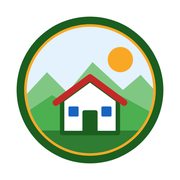
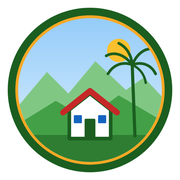
Sello «Los Profesionales», escombros retirados y ajustes de la Junta
- Logo nuevo: sello con «LOS PROFESIONALES» y «Junta de Acción Comunal
  · Armenia» en el aro, y en el centro las montañas del Quindío, la casa
  comunal y la palma de cera. Versión sin texto (logo-icono.svg) para el
  encabezado, el pie, la cartelera y los íconos; imagen para compartir e
  íconos PNG regenerados.
- JAC-010 pasa a «En trámite»: la Junta verificó que los escombros ya
  fueron retirados; falta confirmar las basuras y la respuesta escrita.
  Las fotos quedan como «Antes».
- Asamblea: el 18 sep se adelantó la depuración del libro de afiliados;
  eso es lo que se espera para volver a convocar.
- Vicepresidente: «Apoyo a la gestión de la Junta».
- Delegados: Álvaro Zambrano, suplente hasta la próxima Asamblea, por
  renuncia del delegado anterior.
- Cartelera: «Ya se hizo» en franja inferior a dos columnas (1 hoja).

diff --git a/index.html b/index.html
@@ -29,7 +29,7 @@
 
     <title>JAC Barrio Los Profesionales · Comuna 10 · Armenia</title>
 
-    <link rel="icon" type="image/svg+xml" href="img/logo.svg">
+    <link rel="icon" type="image/svg+xml" href="img/logo-icono.svg">
     <link rel="icon" type="image/png" sizes="192x192" href="img/icon-192.png">
     <link rel="apple-touch-icon" href="img/apple-touch-icon.png">
     <link rel="manifest" href="site.webmanifest">
@@ -104,7 +104,7 @@
     <header class="header" id="header">
         <nav class="nav container" aria-label="Principal">
             <a href="#inicio" class="nav__logo" aria-label="Inicio: Junta de Acción Comunal Barrio Los Profesionales">
-                <img src="img/logo.svg" alt="" class="nav__logo-img" width="42" height="42">
+                <img src="img/logo-icono.svg" alt="" class="nav__logo-img" width="42" height="42">
                 <span class="nav__logo-text"><span class="nav__logo-top">Junta de Acción Comunal</span><span class="nav__logo-name">Los Profesionales</span></span>
             </a>
 
@@ -160,7 +160,7 @@
             </svg>
             <div class="hero__flag-stripe" aria-hidden="true"></div>
             <div class="hero__content container">
-                <img src="img/logo.svg" alt="Logo de la Junta de Acción Comunal Barrio Los Profesionales" class="hero__logo" width="112" height="112">
+                <img src="img/logo.svg" alt="Sello de la Junta de Acción Comunal Barrio Los Profesionales" class="hero__logo" width="150" height="150">
                 <span class="hero__badge">Portal oficial · Comuna 10 · Armenia, Quindío</span>
                 <h1 class="hero__title">Junta de Acción Comunal</h1>
                 <p class="hero__subtitle">Barrio Los Profesionales</p>
@@ -451,7 +451,7 @@
                         <h3 id="asamblea-title" class="asamblea__heading">Próxima Asamblea General</h3>
                         <p class="asamblea__date" data-asamblea-fecha>Fecha por definir</p>
                         <p class="asamblea__countdown" data-asamblea-cuenta hidden></p>
-                        <p class="asamblea__detail" data-asamblea-detalle>La Asamblea convocada para el 18 de septiembre de 2026 no alcanzó el quórum. La volveremos a convocar en cuanto terminemos de depurar el libro de afiliados, y la publicaremos aquí y en cartelera con anticipación. Si quieres que te avisemos por correo, <a href="#avisos-correo" class="contact__link">inscríbete aquí</a>.</p>
+                        <p class="asamblea__detail" data-asamblea-detalle>La Asamblea convocada para el 18 de septiembre de 2026 no alcanzó el quórum; lo que se pudo adelantar fue la depuración del libro de afiliados, y eso es lo que estamos esperando. La volveremos a convocar en cuanto esa depuración termine, y la publicaremos aquí y en cartelera con anticipación. Si quieres que te avisemos por correo, <a href="#avisos-correo" class="contact__link">inscríbete aquí</a>.</p>
                         <button type="button" class="btn btn--ghost asamblea__ics" data-asamblea-ics hidden>📅 Agregar a mi calendario</button>
                         <button type="button" class="act-btn asamblea__listen" data-listen="#asamblea-ficha" hidden><span aria-hidden="true">🔊</span> Escuchar</button>
                     </div>
@@ -576,7 +576,7 @@
                     <li class="aviso">
                         <time class="aviso__date" datetime="2026-09-18">18 sep 2026</time>
                         <div>
-                            <strong>La Asamblea General no alcanzó el quórum.</strong> Se convocará de nuevo cuando esté depurado el libro de afiliados.
+                            <strong>La Asamblea General no alcanzó el quórum.</strong> Se adelantó la depuración del libro de afiliados; la Asamblea se convocará de nuevo cuando esa depuración termine.
                             <a href="#retiro" class="contact__link">Por qué importa</a>
                         </div>
                     </li>
@@ -1028,7 +1028,7 @@
                         <div class="team__avatar">E</div>
                         <h4>Eneried Vallejo Montenegro</h4>
                         <span class="team__role">Vicepresidente</span>
-                        <p class="team__desc">Apoya la gestión y reemplaza al presidente</p>
+                        <p class="team__desc">Apoyo a la gestión de la Junta</p>
                     </div>
                     <div class="team__card fade-in">
                         <div class="team__avatar">S</div>
@@ -1073,7 +1073,7 @@
                         <ul class="org__list">
                             <li><span class="org__name">Fernando Ramírez Salcedo</span></li>
                             <li><span class="org__name">Eneried Vallejo Montenegro</span></li>
-                            <li><span class="org__name">Byron Daniel Peñaloza Peña</span></li>
+                            <li><span class="org__name">Álvaro Zambrano</span><span class="org__role">Suplente hasta la próxima Asamblea, por renuncia del delegado anterior</span></li>
                         </ul>
                     </div>
                 </div>
@@ -1456,7 +1456,7 @@
             <div class="footer__grid">
                 <div class="footer__col">
                     <div class="footer__logo">
-                        <img src="img/logo.svg" alt="" width="44" height="44">
+                        <img src="img/logo-icono.svg" alt="" width="44" height="44">
                         <h4>JAC Barrio Los Profesionales</h4>
                     </div>
                     <p>Comuna 10 · Armenia, Quindío. Organización comunal sin ánimo de lucro, al servicio de todos los habitantes del barrio.</p>

diff --git a/cartelera.html b/cartelera.html
@@ -107,9 +107,9 @@
             display: flex;
             align-items: center;
             gap: 2mm;
-            font-size: 12.5pt;
+            font-size: 11.5pt;
             font-weight: 800;
-            padding: 1.5mm 3mm;
+            padding: 1.1mm 3mm;
             border-radius: 2mm;
             color: #fff;
             background: var(--c);
@@ -122,7 +122,7 @@
             display: grid;
             grid-template-columns: 1fr;
             gap: 0.3mm;
-            padding: 0.8mm 0.8mm;
+            padding: 0.6mm 0.8mm;
             border-bottom: 1px solid var(--borde);
             font-size: 8.8pt;
             line-height: 1.26;
@@ -134,6 +134,9 @@
         .lista .m { display: block; color: var(--suave); font-size: 8.2pt; margin-top: 0.2mm; }
         .lista .r { display: block; font-size: 8.2pt; font-weight: 700; color: var(--ambar); margin-top: 0.2mm; }
         .lista .r.tarde { color: var(--rojo); }
+        .bloque--hecho { margin-top: 2.5mm; }
+        .lista--2col { grid-template-columns: 1fr 1fr; column-gap: 6mm; }
+        .lista--2col li:nth-last-child(2):nth-child(odd) { border-bottom: none; }
 
         .pie .asamblea {
             margin: 0 0 2mm;
@@ -154,7 +157,7 @@
         }
         .qr { width: 26mm; height: 26mm; display: block; }
         .pie__titulo { font-size: 13pt; font-weight: 900; color: var(--verde-osc); }
-        .pie p { font-size: 9.8pt; margin-top: 1mm; }
+        .pie p { font-size: 9.4pt; margin-top: 0.8mm; }
         .pie .url { font-size: 9pt; color: var(--suave); word-break: break-all; }
         .pie .nota { font-size: 8pt; color: var(--suave); margin-top: 2mm; }
 
@@ -168,7 +171,7 @@
             .hoja { width: auto; min-height: 0; margin: 0 0.75rem 1.5rem; padding: 1.25rem 1rem; }
             .cab { flex-direction: column; align-items: flex-start; }
             .cab__fecha { text-align: left; }
-            .cuenta, .cuerpo { grid-template-columns: 1fr; }
+            .cuenta, .cuerpo, .lista--2col { grid-template-columns: 1fr; }
             .lista li { grid-template-columns: 1fr; gap: 0.5mm; }
             .pie { grid-template-columns: 1fr; justify-items: start; }
         }
@@ -184,7 +187,7 @@
     <main class="hoja" aria-label="Cartelera imprimible">
         <header class="cab">
             <div class="cab__izq">
-                <img src="img/logo.svg" alt="Logo de la Junta" class="cab__logo" width="76" height="76">
+                <img src="img/logo-icono.svg" alt="Logo de la Junta" class="cab__logo" width="76" height="76">
                 <div>
                 <p class="cab__org">Junta de Acción Comunal · Barrio Los Profesionales</p>
                 <p class="cab__sub">Comuna 10 · Armenia, Quindío</p>
@@ -205,17 +208,16 @@
                 <h2>⏳ Esperando respuesta</h2>
                 <ol class="lista" id="c-espera"></ol>
             </section>
-            <div class="cuerpo__der">
-                <section class="bloque" style="--c: var(--azul)">
-                    <h2>🔄 En trámite</h2>
-                    <ol class="lista" id="c-tramite"></ol>
-                </section>
-                <section class="bloque" style="--c: var(--verde)">
-                    <h2>✅ Ya se hizo</h2>
-                    <ol class="lista lista--compacta" id="c-hecho"></ol>
-                </section>
-            </div>
+            <section class="bloque" style="--c: var(--azul)">
+                <h2>🔄 En trámite</h2>
+                <ol class="lista" id="c-tramite"></ol>
+            </section>
         </div>
+
+        <section class="bloque bloque--hecho" style="--c: var(--verde)">
+            <h2>✅ Ya se hizo</h2>
+            <ol class="lista lista--compacta lista--2col" id="c-hecho"></ol>
+        </section>
 
 
         <footer class="pie">

diff --git a/js/actuaciones.js b/js/actuaciones.js
@@ -102,26 +102,6 @@ window.JAC_DATOS = {
     },
     {
         "estado": "espera",
-        "fecha": "2026-09-21",
-        "numero": "JAC-010-2026",
-        "titulo": "Retiro de los escombros que dejó el sismo y de las basuras acumuladas en cuatro puntos del barrio",
-        "entidad": "Alcaldía (Despacho, Planeación, Gestión del Riesgo y Gobierno) · EPA",
-        "plazo": 15,
-        "novedades": [
-            ["2026-09-21", "Oficio radicado, con registro fotográfico."]
-        ],
-        "pendiente": "Respuesta y retiro de los escombros y basuras.",
-        "fotos": [
-            ["jac010-basuras-1.jpg", "Basuras acumuladas sobre un andén del barrio (21 sep 2026)"],
-            ["jac010-basuras-2.jpg", "Basuras y escombros junto a un lote del barrio (21 sep 2026)"],
-            ["jac010-escombros.jpg", "Escombros entre los árboles de un separador (21 sep 2026)"]
-        ],
-        "documentos": [
-            ["JAC-010-2026-escombros-basuras.pdf", "Oficio JAC-010-2026 (21 sep 2026)"]
-        ]
-    },
-    {
-        "estado": "espera",
         "fecha": "2026-10-02",
         "numero": "JAC-011-2026",
         "titulo": "Registrar el correo jaclosprofesionales@gmail.com como canal oficial de la Junta para comunicaciones y notificaciones",
@@ -267,13 +247,34 @@ window.JAC_DATOS = {
         "entidad": "Junta Directiva · Secretaría",
         "plazo": 0,
         "novedades": [
-            ["2026-09-18", "Asamblea General convocada, presencial y virtual: no se alcanzó el quórum."],
+            ["2026-09-18", "Asamblea General convocada, presencial y virtual: no se alcanzó el quórum. Se adelantó la depuración del libro de afiliados."],
             ["2026-11-11", "La Junta invita a quienes ya no puedan participar a pedir su retiro voluntario del libro de afiliados."]
         ],
-        "pendiente": "Depurar el libro de afiliados y convocar de nuevo la Asamblea (fecha por definir).",
+        "pendiente": "Terminar la depuración del libro de afiliados (en espera) y convocar de nuevo la Asamblea (fecha por definir).",
         "fotos": [],
         "documentos": [
             ["asamblea-2026-09-18-convocatoria.pdf", "Convocatoria a la Asamblea del 18 de septiembre de 2026"]
+        ]
+    },
+    {
+        "estado": "tramite",
+        "fecha": "2026-09-21",
+        "numero": "JAC-010-2026",
+        "titulo": "Retiro de los escombros que dejó el sismo y de las basuras acumuladas en cuatro puntos del barrio",
+        "entidad": "Alcaldía (Despacho, Planeación, Gestión del Riesgo y Gobierno) · EPA",
+        "plazo": 15,
+        "novedades": [
+            ["2026-09-21", "Oficio radicado, con registro fotográfico."],
+            ["2026-11-11", "La Junta verificó que los escombros ya fueron retirados."]
+        ],
+        "pendiente": "Confirmar el retiro de las basuras acumuladas y recibir la respuesta escrita de la Alcaldía.",
+        "fotos": [
+            ["jac010-basuras-1.jpg", "Antes: basuras acumuladas sobre un andén del barrio (21 sep 2026)"],
+            ["jac010-basuras-2.jpg", "Antes: basuras y escombros junto a un lote del barrio (21 sep 2026)"],
+            ["jac010-escombros.jpg", "Antes: escombros entre los árboles de un separador (21 sep 2026)"]
+        ],
+        "documentos": [
+            ["JAC-010-2026-escombros-basuras.pdf", "Oficio JAC-010-2026 (21 sep 2026)"]
         ]
     },
     {

diff --git a/css/styles.css b/css/styles.css
@@ -4816,3 +4816,7 @@ a.tel__item--urgente:focus-visible { border-color: #8E0000; box-shadow: 0 0 0 3p
     .nav__toggle,
     .nav__toggle:hover { gap: 0.4rem; padding: 0.35rem 0.7rem 0.35rem 0.6rem; }
 }
+
+/* Sello con el nombre «Los Profesionales»: más grande para que se lea */
+.hero__logo { width: 150px; height: 150px; }
+@media (max-width: 768px) { .hero__logo { width: 124px; height: 124px; } }
